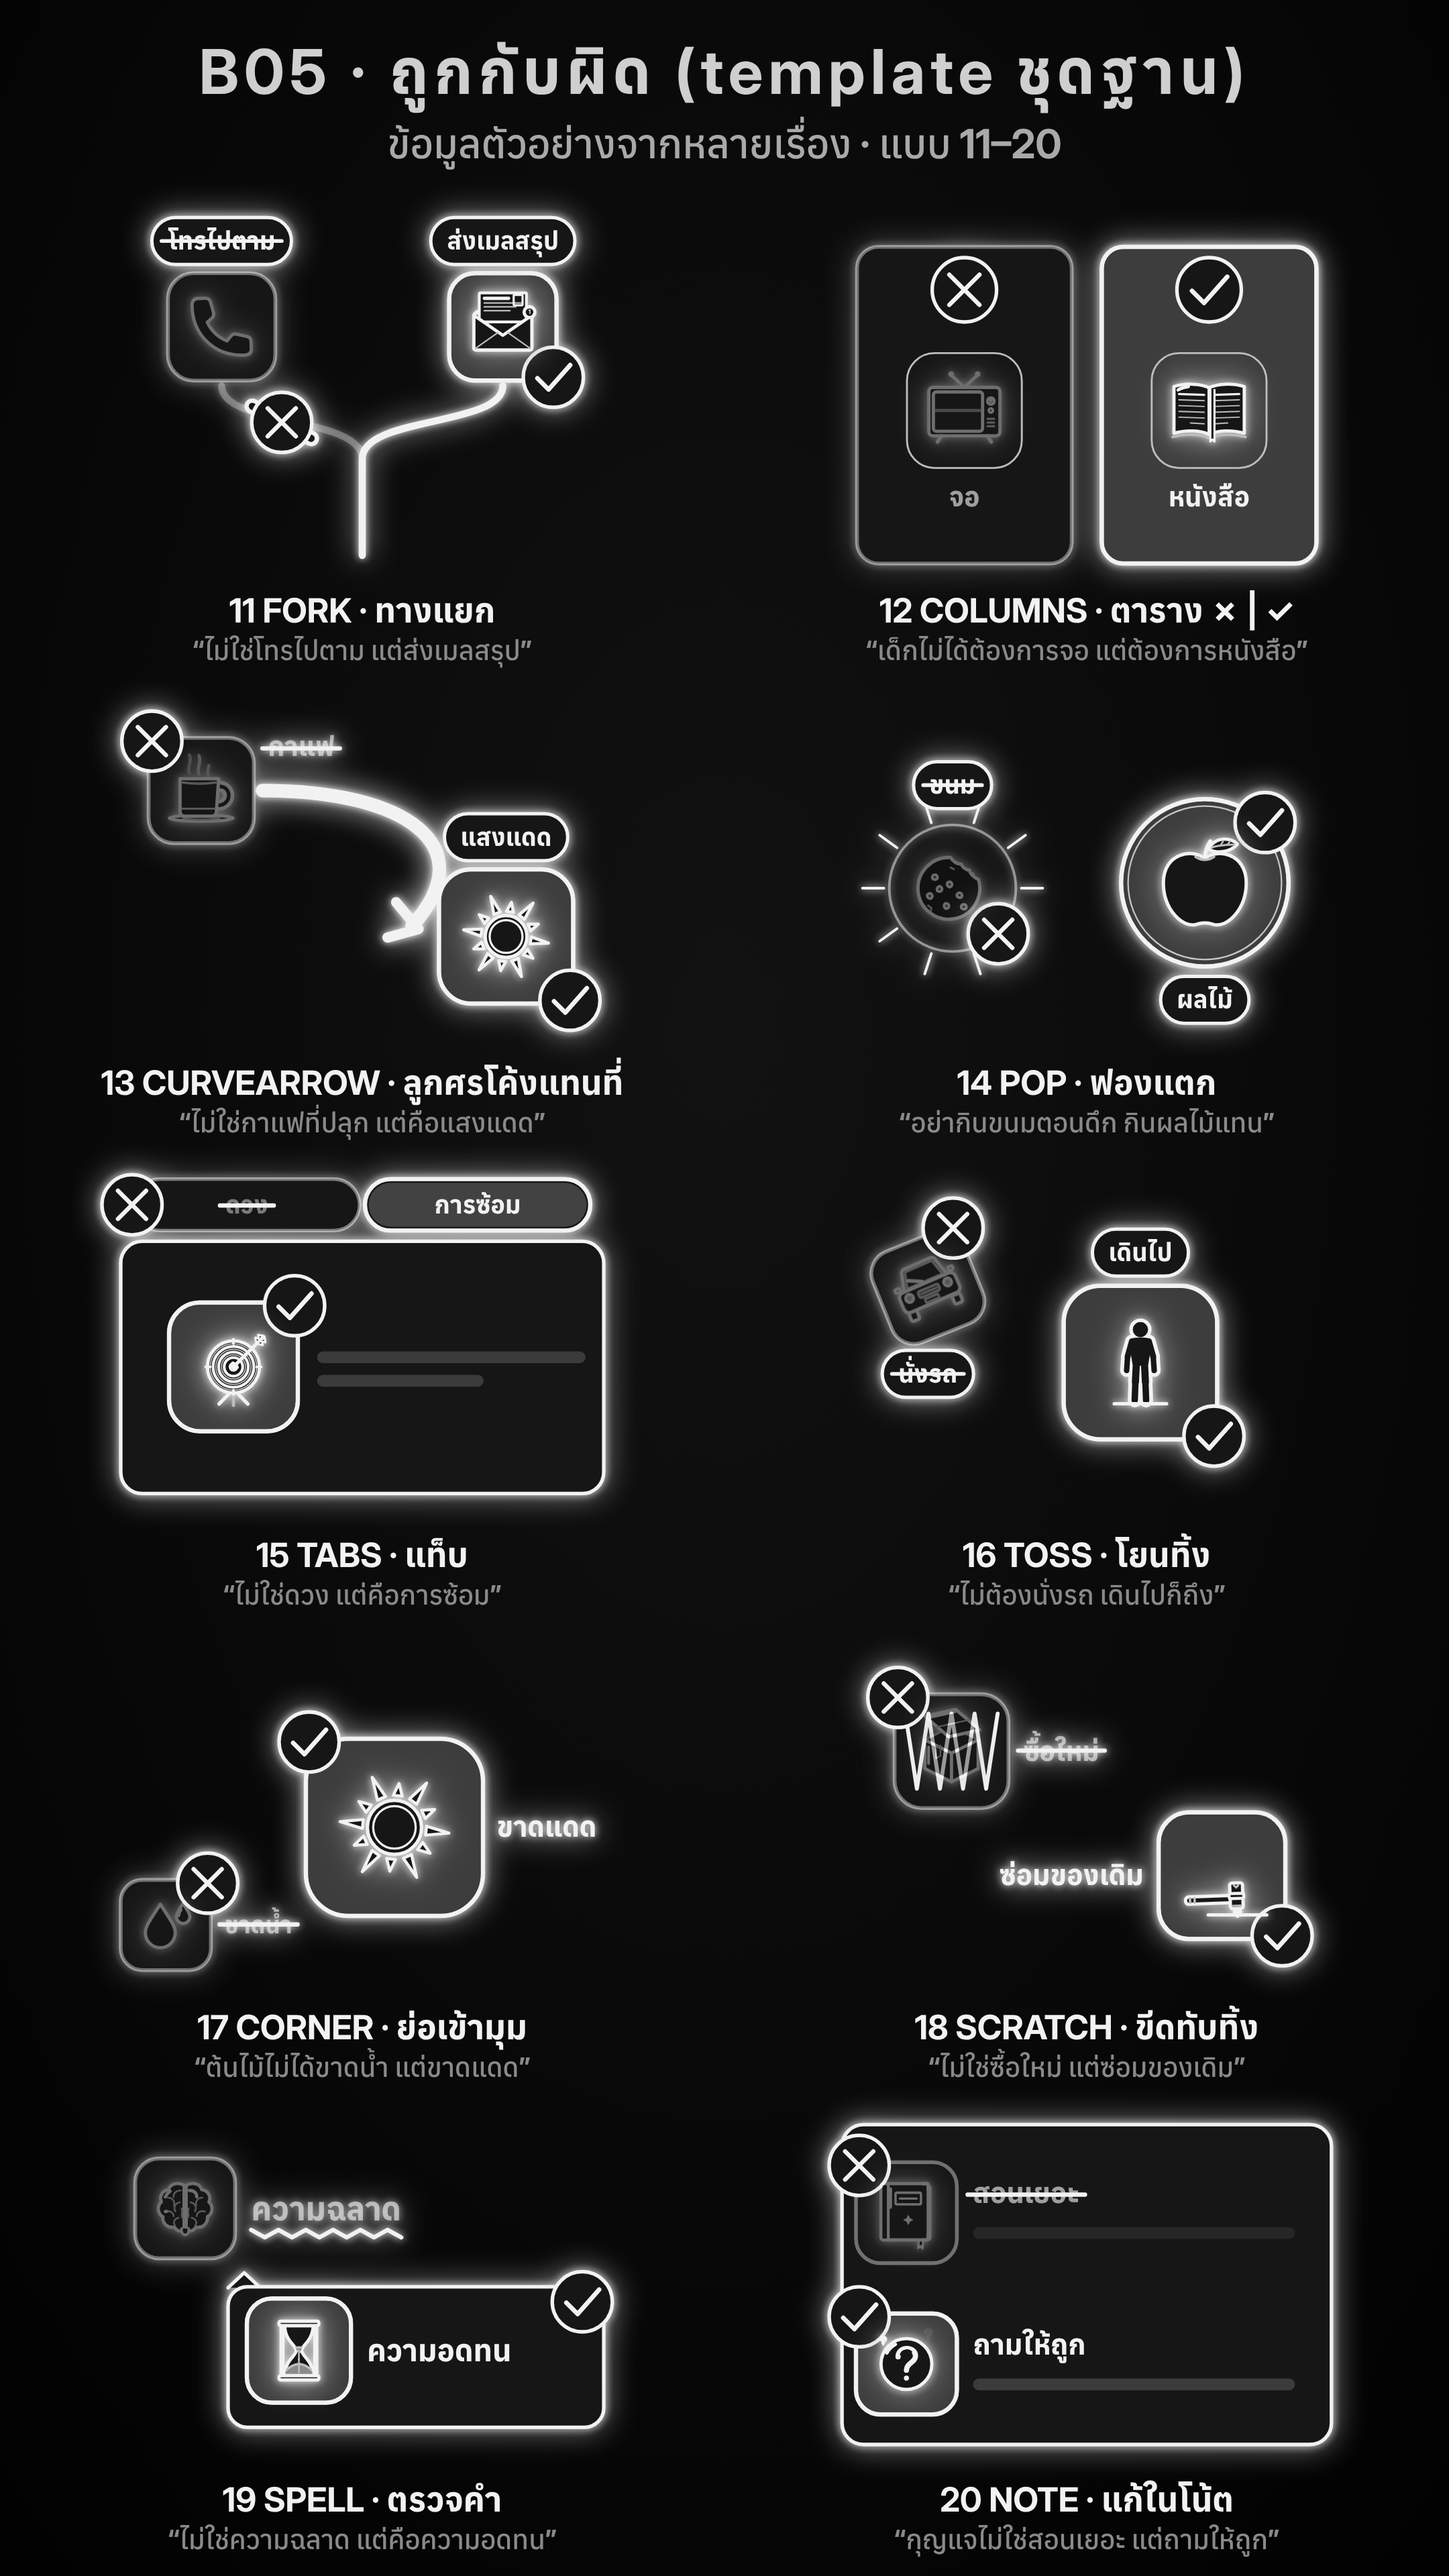
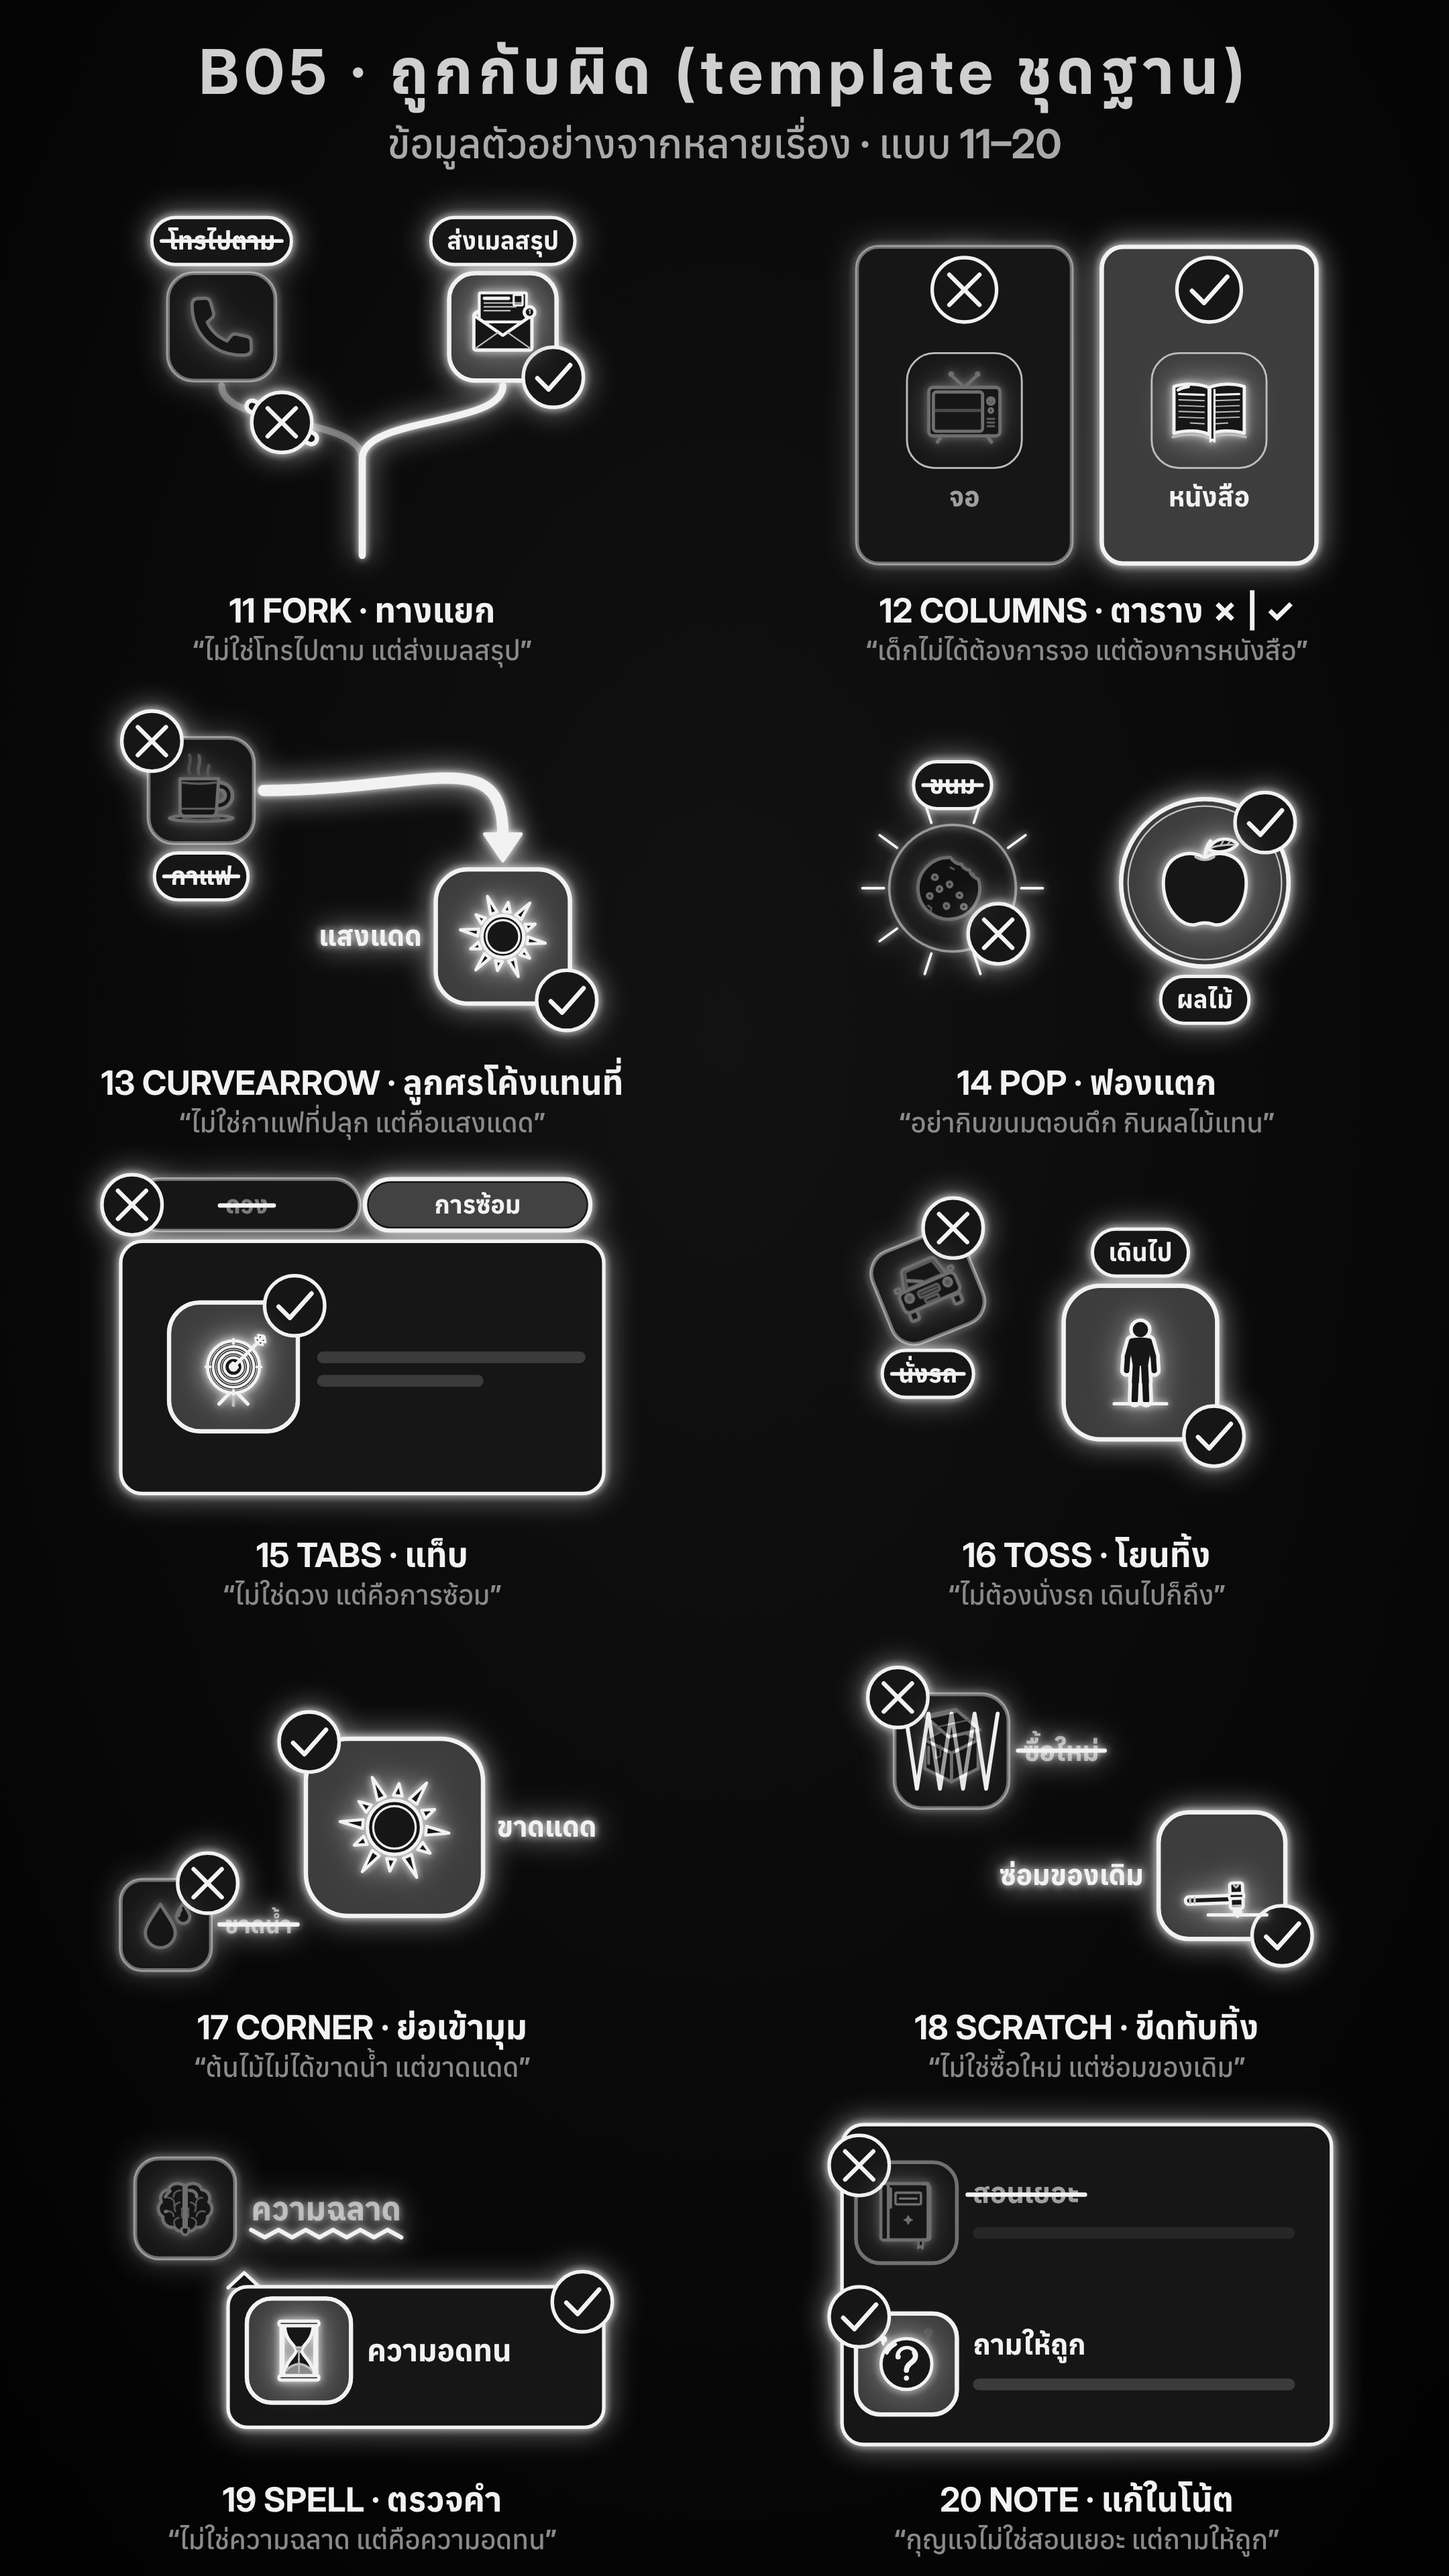
glow-line-motion: B05T 13 ลูกศรโค้ง — หัวลูกศรสามเหลี่ยมตามทิศเส้น ลงตรงบนกล่องฝั่งถูก
Claude-Session: https://claude.ai/code/session_014abtgsBLm7RK8cFi6tidcy

Changed region(s): [[0.0931, 0.2812, 0.4343, 0.4062]]

diff --git a/.claude/skills/glow-line-motion/examples/b05t/b05t.js b/.claude/skills/glow-line-motion/examples/b05t/b05t.js
@@ -804,12 +804,15 @@
     marks5(p, [-228, Y - CH / 2 + 80], [228, Y - CH / 2 + 80], 60); }); });
 
   /* 13 ── CURVED ARROW (ลูกศรโค้งแทนที่): the wrong up top is struck; a fat curved arrow sweeps down from it to the right one, which lands lit */
-  variant('curvearrow', 'ลูกศรโค้งแทนที่', (d, c) => { art(c, p => { const T_ = CT(), W_ = [-300, -142], s1 = 196, R_ = [268, 130], s2 = 250;
-    cbox(p, c, d, 'w', ...W_, s1); const ap = `M ${W_[0] + s1 / 2 + 16} ${W_[1]} C 80 ${W_[1]} ${R_[0] - 40} -40 ${R_[0] - s2 / 2 - 50} ${R_[1] - 20}`;
-    drawAt(p.path(ap, { sw: 22, stroke: TL_(.45) }), p, T_.tN, tu(.3)); const la = p.path(ap, { sw: 22, stroke: ACC1 }); on(la, p, 0, { draw: [[0, 0], [T_.tR, 0], [f3(T_.H - tu(.1)), 1, 'io']] });
-    const hx = R_[0] - s2 / 2 - 50, hy = R_[1] - 20; popAt(p, hx, hy, f3(T_.H - tu(.1))).path(`M ${hx - 30} ${hy - 44} L ${hx + 12} ${hy + 6} L ${hx - 46} ${hy + 22}`, { sw: 16, stroke: ACC1 });
-    const KR = ent('pop', ...R_, s2, T_.tR); cbox(p, c, d, 'r', ...R_, s2, { g: mvG(p, KR), mv: KR });
-    cword(p, d, 'w', W_[0] + s1 / 2 + 26, W_[1] - 64, { anchor: 'start', size: 50, maxW: 380, wrap: null, strike: true }); cword(p, d, 'r', R_[0], R_[1] - s2 / 2 - 60, { pill: true, maxW: 340 });
+  variant('curvearrow', 'ลูกศรโค้งแทนที่', (d, c) => { art(c, p => { const T_ = CT(), W_ = [-300, -142], s1 = 196, R_ = [262, 130], s2 = 250;
+    /* (user: "13 แก้ไขลูกศร") the arrow leaves the wrong box's right side, bends over and comes straight down onto the top of the right box;
+       its head is a solid triangle that follows the line's end direction (straight down), the line stops at the head's base */
+    const x0 = W_[0] + s1 / 2 + 18, y0 = W_[1], tipY = f1(R_[1] - s2 / 2 - 16), baseY = f1(tipY - 50), ap = `M ${x0} ${y0} C ${f1(x0 + 300)} ${y0} ${R_[0]} ${f1(baseY - 170)} ${R_[0]} ${baseY}`;
+    const head = `M ${R_[0]} ${tipY} L ${R_[0] - 34} ${baseY} L ${R_[0] + 34} ${baseY} Z`;
+    drawAt(p.path(ap, { sw: 18, stroke: TL_(.45) }), p, T_.tN, tu(.3)); const hg = popAt(p, R_[0], baseY, f3(T_.tN + tu(.28))); hg.path(head, { fill: TL_(.45), sw: 3, stroke: TL_(.45) });
+    const la = p.path(ap, { sw: 18, stroke: ACC1 }); on(la, p, 0, { draw: [[0, 0], [T_.tR, 0], [f3(T_.H - tu(.1)), 1, 'io']] }); litOn(p, f3(T_.H - tu(.1))).path(head, { fill: ACC1, sw: 3, stroke: ACC1 });
+    cbox(p, c, d, 'w', ...W_, s1); const KR = ent('pop', ...R_, s2, T_.tR); cbox(p, c, d, 'r', ...R_, s2, { g: mvG(p, KR), mv: KR });
+    cword(p, d, 'w', W_[0], W_[1] + s1 / 2 + 62, { pill: true, maxW: 320, strike: true }); cword(p, d, 'r', R_[0] - s2 / 2 - 26, R_[1] + 18, { anchor: 'end', size: 52, maxW: 330 });
     marks5(p, corner(...W_, s1, -1), cornerB(...R_, s2)); }); });
 
   /* 14 ── POP (ฟองแตก): the wrong bubble bursts — a dashed ring and sparks are left with its icon dim — the right bubble swells big and lit */
